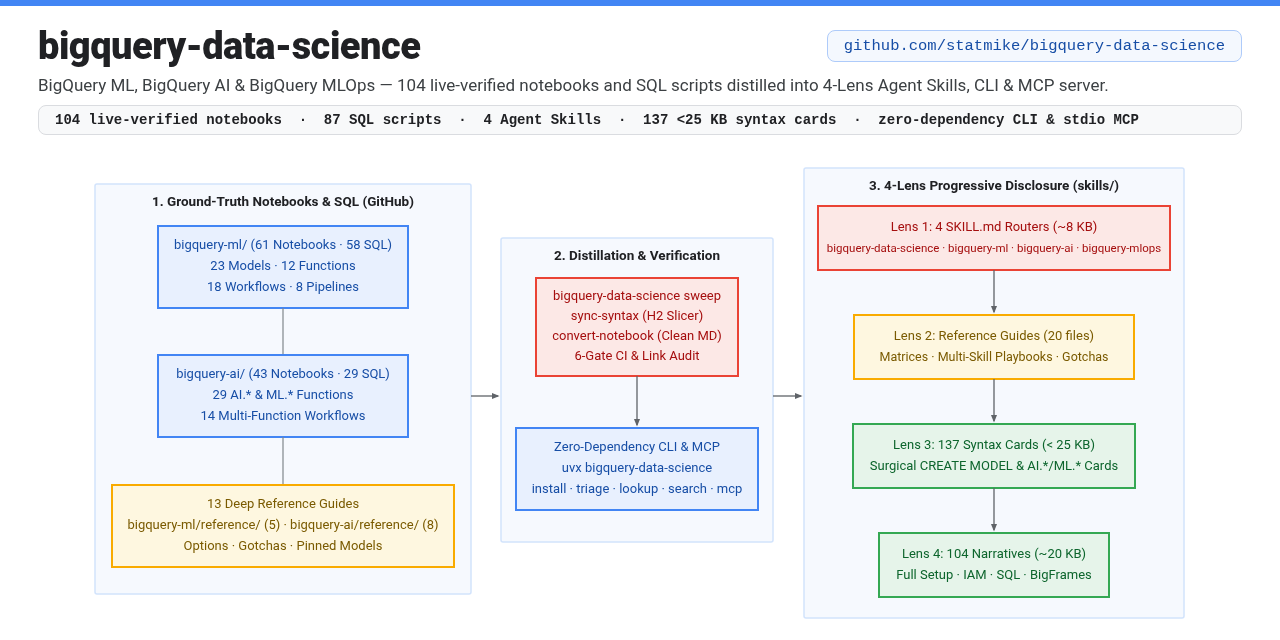
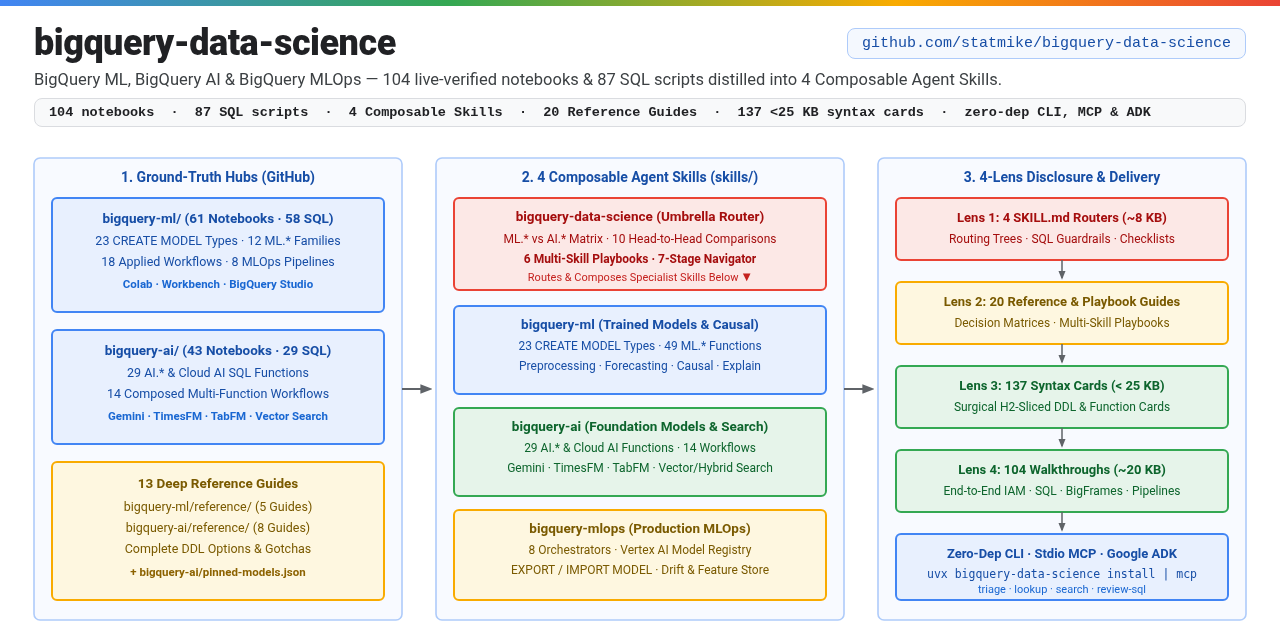
docs(readme): revise 3-stage 4-skill architecture diagram, SVG, PyPI PNG, and social card

diff --git a/tests/test_packaging.py b/tests/test_packaging.py
@@ -168,6 +168,7 @@ def test_hatch_fancy_pypi_readme_substitutions_leave_zero_relative_links() -> No
     )
     assert (REPO_ROOT / "docs" / "assets" / "social_card.png").is_file()
     assert (REPO_ROOT / "docs" / "assets" / "readme_architecture.png").is_file()
+    assert (REPO_ROOT / "docs" / "assets" / "readme_architecture.svg").is_file()
 
 
 def test_governance_and_ci_workflow_files_exist() -> None:

diff --git a/README.md b/README.md
@@ -1,59 +1,66 @@
 # bigquery-data-science
 
-**Production Agent Skills, zero-dependency CLI & stdio MCP server for BigQuery ML and BigQuery AI — distilled directly from 104 live-executed notebooks and 87 SQL scripts in Google Cloud.**
+**Production Agent Skills, zero-dependency CLI, stdio MCP server & Google ADK tools for BigQuery ML, BigQuery AI, and BigQuery MLOps — distilled directly from 104 live-executed notebooks and 87 SQL scripts in Google Cloud.**
 
 [![PyPI](https://img.shields.io/pypi/v/bigquery-data-science?style=for-the-badge&logo=pypi&logoColor=white)](https://pypi.org/project/bigquery-data-science/)
 [![BigQuery ML Hub](https://img.shields.io/badge/BigQuery%20ML-61%20Notebooks%20%26%2058%20SQL-4285F4?style=for-the-badge&logo=google-cloud&logoColor=white)](bigquery-ml/README.md)
 [![BigQuery AI Hub](https://img.shields.io/badge/BigQuery%20AI-43%20Notebooks%20%26%2029%20SQL-0F9D58?style=for-the-badge&logo=google-cloud&logoColor=white)](bigquery-ai/README.md)
-[![Agent Skills](https://img.shields.io/badge/Agent%20Skills-4--Lens%20Progressive%20Disclosure-8E24AA?style=for-the-badge)](skills/PLANS.md)
+[![BigQuery MLOps Skill](https://img.shields.io/badge/BigQuery%20MLOps-8%20Pipelines%20%C2%B7%20Registry%20%C2%B7%20Drift-F9AB00?style=for-the-badge&logo=google-cloud&logoColor=white)](skills/bigquery-mlops/SKILL.md)
+[![Multi-Skill Playbooks](https://img.shields.io/badge/Multi--Skill-6%20Playbooks%20%C2%B7%207--Stage%20Map-8E24AA?style=for-the-badge)](skills/bigquery-data-science/reference/cross-skill-playbooks.md)
 [![Namespace Matrix](https://img.shields.io/badge/ML.*%20vs%20AI.*-Namespace%20Matrix-EA4335?style=for-the-badge)](skills/bigquery-data-science/reference/namespace-matrix.md)
 [![License](https://img.shields.io/badge/License-Apache%202.0-4E5D6C?style=for-the-badge)](LICENSE)
 
-`104 live-verified notebooks` · `87 SQL scripts` · `4 Agent Skills` · `137 <25 KB syntax cards` · `zero-dependency CLI & stdio MCP`
+`104 live-verified notebooks` · `87 SQL scripts` · `4 Composable Agent Skills` · `20 Reference & Playbook Guides` · `137 <25 KB syntax cards` · `zero-dependency CLI, MCP & ADK`
 
 ```mermaid
 flowchart TD
-    subgraph GT["1. Ground-Truth Notebooks & SQL (GitHub)"]
+    subgraph GT["1. Ground-Truth Notebooks, SQL & Reference Hubs (GitHub)"]
         direction LR
-        BQML["bigquery-ml/ (61 Notebooks · 58 SQL)<br/>23 Models · 12 Functions<br/>18 Workflows · 8 Pipelines"]
-        BQAI["bigquery-ai/ (43 Notebooks · 29 SQL)<br/>29 AI.* & ML.* Functions<br/>14 Multi-Function Workflows"]
-        REFS["13 Deep Reference Guides<br/>bigquery-ml/reference/ (5) · bigquery-ai/reference/ (8)<br/>Options · Gotchas · Pinned Models"]
-    end
-    subgraph SYNC["2. Distillation & Verification"]
-        direction LR
-        SWEEP["bigquery-data-science sweep<br/>sync-syntax (H2 Slicer)<br/>convert-notebook (Clean MD)<br/>6-Gate CI & Link Audit"]
-        CLI["Zero-Dependency CLI & MCP<br/>uvx bigquery-data-science<br/>install · triage · lookup · search · mcp"]
-        SWEEP --> CLI
-    end
-    subgraph LENS["3. 4-Lens Progressive Disclosure (skills/)"]
-        direction TB
-        L1["Lens 1: 4 SKILL.md Routers (~8 KB)<br/>bigquery-data-science · bigquery-ml · bigquery-ai · bigquery-mlops"]
-        L2["Lens 2: Reference Guides (20 files)<br/>Decision Matrices · Multi-Skill Playbooks · Gotchas"]
-        L3["Lens 3: 137 Syntax Cards (< 25 KB)<br/>Surgical CREATE MODEL & AI.*/ML.* Cards"]
-        L4["Lens 4: 104 Narratives (~20 KB)<br/>Full Setup · IAM · SQL · BigFrames"]
-        L1 --> L2 --> L3 --> L4
+        BQML["bigquery-ml/ (61 Notebooks · 58 SQL)<br/>23 CREATE MODEL Types · 12 ML.* Functions<br/>18 Workflows · 8 MLOps Pipelines"]
+        BQAI["bigquery-ai/ (43 Notebooks · 29 SQL)<br/>29 AI.* & Cloud AI Functions<br/>14 Multi-Function Workflows"]
+        REFS["13 Deep Reference Guides<br/>bigquery-ml/reference/ (5) · bigquery-ai/reference/ (8)<br/>Options · Gotchas · pinned-models.json"]
     end
 
-    GT --> SYNC --> LENS
+    subgraph SKILLS["2. 4 Composable Agent Skills (skills/ · .agents/skills/ · .claude/skills/)"]
+        direction TB
+        ROUTER["bigquery-data-science (Umbrella Router & Multi-Skill Composer)<br/>ML.* vs AI.* Prerequisite Matrix · 10 Head-to-Head Comparisons<br/>6 Multi-Skill Composition Playbooks · 7-Stage Lifecycle Navigator"]
+        S_ML["bigquery-ml<br/>23 CREATE MODEL Types<br/>Preprocessing · Causal · Explain"]
+        S_AI["bigquery-ai<br/>29 AI.* & Cloud AI Functions<br/>TimesFM · TabFM · Vector/Hybrid Search"]
+        S_OPS["bigquery-mlops<br/>8 Orchestrators · Vertex Registry<br/>Export/Import · Drift & Feature Store"]
+        ROUTER --> S_ML
+        ROUTER --> S_AI
+        ROUTER --> S_OPS
+    end
+
+    subgraph LENS["3. 4-Lens Progressive Disclosure & Zero-Dependency Delivery"]
+        direction TB
+        L12["Lens 1: 4 SKILL.md Routers (~8 KB)  ➜  Lens 2: 20 Decision & Playbook Guides (~15–45 KB)"]
+        L34["Lens 3: 137 Surgical Syntax Cards (< 25 KB)  ➜  Lens 4: 104 Worked Walkthroughs (~20 KB)"]
+        DELIV["Zero-Dependency Package (< 1.5 MB Wheel) · CLI · Stdio MCP Server · Google ADK<br/>uvx bigquery-data-science install · triage · lookup · search · review-sql · mcp"]
+        L12 --> L34 --> DELIV
+    end
+
+    GT --> SKILLS --> LENS
 
     classDef data fill:#E8F0FE,stroke:#4285F4,stroke-width:2px,color:#174EA6
     classDef config fill:#FEF7E0,stroke:#F9AB00,stroke-width:2px,color:#7A5A00
     classDef route fill:#FCE8E6,stroke:#EA4335,stroke-width:2px,color:#A50E0E
     classDef compute fill:#E6F4EA,stroke:#34A853,stroke-width:2px,color:#0D652D
-    class BQML,BQAI,CLI data
-    class REFS,L2 config
-    class SWEEP,L1 route
-    class L3,L4 compute
+    class BQML,BQAI,S_ML,DELIV data
+    class REFS,S_OPS,L12 config
+    class ROUTER route
+    class S_AI,L34 compute
 ```
 
 ---
 
 ## What you just found
 
-This repository pairs **two complementary layers** that stay synchronized through automated tooling (`bigquery-data-science sweep`):
+This repository pairs **three tightly connected layers** that stay synchronized through automated tooling (`bigquery-data-science sweep`):
 
-1. **Ground-Truth Notebooks, SQL & Reference Guides ([`bigquery-ml/`](bigquery-ml/README.md) & [`bigquery-ai/`](bigquery-ai/README.md)):** Every model type, `ML.*` function, `AI.*` function, composed workflow, and orchestration pipeline is validated end-to-end in a live-executed Jupyter notebook (`.ipynb` with stored execution outputs and one-click Colab / Vertex AI Workbench / BigQuery Studio headers) paired with a pure SQL companion script (`.sql`) and 13 exhaustive domain reference guides.
-2. **4-Lens Agent Skills, CLI & Stdio MCP Server ([`skills/`](skills/PLANS.md) & [`src/bigquery_data_science/`](src/bigquery_data_science/__init__.py)):** Instead of dumping 24 MB of raw notebooks or 200+ KB monolithic reference files into an AI coding agent's context window, `bigquery-data-science` compiles the ground-truth notebooks and references into **4 progressive lenses** — routing agents from an `~8 KB` `SKILL.md` decision tree to a surgical `<25 KB` syntax card (`syntax/*.md`) or a clean markdown walkthrough (`narrative/*.md`) only when needed.
+1. **Ground-Truth Notebooks, SQL & Reference Hubs ([`bigquery-ml/`](bigquery-ml/README.md) & [`bigquery-ai/`](bigquery-ai/README.md)):** Every model type (`23`), `ML.*` function (`12` families), `AI.*` / Cloud AI function (`29`), composed workflow (`32`), and MLOps orchestration pipeline (`8`) is validated end-to-end in a live-executed Jupyter notebook (`.ipynb` with committed outputs and one-click Colab / Vertex AI Workbench / BigQuery Studio headers) paired with a pure SQL companion script (`87` `.sql` files) and `13` deep domain reference guides.
+2. **4 Composable Agent Skills ([`skills/`](skills/PLANS.md)):** An umbrella router and multi-skill composer ([`bigquery-data-science`](skills/bigquery-data-science/SKILL.md)) routes across three specialist skills — trained models & causal inference ([`bigquery-ml`](skills/bigquery-ml/SKILL.md)), zero-training foundation models & vector/hybrid search ([`bigquery-ai`](skills/bigquery-ai/SKILL.md)), and production orchestration, model registry, hybrid serving, drift monitoring & point-in-time feature stores ([`bigquery-mlops`](skills/bigquery-mlops/SKILL.md)) — and explicitly recommends multi-skill combinations via [`cross-skill-playbooks.md`](skills/bigquery-data-science/reference/cross-skill-playbooks.md).
+3. **4-Lens Progressive Disclosure, CLI, Stdio MCP & Google ADK ([`src/bigquery_data_science/`](src/bigquery_data_science/__init__.py)):** Instead of dumping 24 MB of raw notebooks or 200+ KB monolithic reference files into an AI coding agent's context window, `bigquery-data-science` compiles the repository into **4 progressive lenses** (`SKILL.md` $\to$ `20` reference guides $\to$ `137` `<25 KB` syntax cards $\to$ `104` clean narratives) and exposes them through a zero-dependency CLI (`uvx bigquery-data-science`), stdio MCP server (`bigquery-data-science mcp`), and Google ADK toolset (`get_bigquery_tools()`).
 
 ---
 
@@ -101,8 +108,9 @@ Run any catalog command directly with `uvx bigquery-data-science ...` (zero inst
 # 1. List bundled skills and lens counts:
 uvx bigquery-data-science list
 
-# 2. Triage an ambiguous BigQuery ML vs BigQuery AI task (10 empirical head-to-head comparisons):
+# 2. Triage any BigQuery ML, BigQuery AI, or BigQuery MLOps task (10 comparisons + 6 multi-skill playbooks):
 uvx bigquery-data-science triage "forecast daily retail sales with holiday promotions"
+uvx bigquery-data-science triage "schedule retraining pipeline with drift gate and Vertex AI Model Registry"
 
 # 3. Fetch the surgical syntax card (< 25 KB) for any model or function:
 uvx bigquery-data-science lookup ARIMA_PLUS
@@ -183,6 +191,7 @@ BigQuery exposes machine learning and generative AI across two SQL prefixes (`ML
 | **2. Model-Free Feature Engineering, Drift & Point-in-Time Joins** | `ML.*` | **No** (operates directly on tables/queries) | No | `ML.STANDARD_SCALER`, `ML.QUANTILE_BUCKETIZE`, `ML.ONE_HOT_ENCODER`, `ML.VALIDATE_DATA_DRIFT`, `ML.TF_IDF`, `ML.NGRAMS`, `ML.ENTITY_FEATURES_AT_TIME` | **[`bigquery-ml/`](bigquery-ml/README.md)** |
 | **3. Zero-Training Foundation Model Functions (Gemini, TimesFM, TabFM)** | `AI.*` (plus `VECTOR_SEARCH`) | **No** (`endpoint => '...'` inline or managed) | For multimodal `ObjectRef` or custom connections | `AI.GENERATE`, `AI.GENERATE_TABLE`, `AI.IF`, `AI.SCORE`, `AI.CLASSIFY`, `AI.AGG`, `AI.EMBED`, `AI.SEARCH`, `AI.FORECAST`, `AI.DETECT_ANOMALIES`, `AI.PREDICT`, `AI.EVALUATE`, `AI.KEY_DRIVERS`, `AI.PARSE_DOCUMENT` | **[`bigquery-ai/`](bigquery-ai/README.md)** |
 | **4. Remote Cloud AI APIs & First-Gen Vertex Wrappers** | `CREATE MODEL ... REMOTE` + `ML.*` | **Yes** (thin metadata pointer to Vertex / Cloud AI API) | **Yes** (`CLOUD_RESOURCE` connection + IAM) | `ML.PROCESS_DOCUMENT`, `ML.TRANSLATE`, `ML.UNDERSTAND_TEXT`, `ML.ANNOTATE_IMAGE`, `ML.TRANSCRIBE`, `ML.GENERATE_TEXT`, `ML.GENERATE_EMBEDDING` | **[`bigquery-ai/`](bigquery-ai/README.md)** |
+| **5. Production MLOps, Model Registry, Export/Import & Universal Monitoring** | `CREATE MODEL ... OPTIONS(model_registry='VERTEX_AI')`, `EXPORT MODEL`, `ML.*` | Varies (`CREATE MODEL` for Registry/Import; **No** for `ML.VALIDATE_DATA_DRIFT` / `ML.METRICS`) | Only for `REMOTE` / Vertex endpoints | `OPTIONS(model_registry='VERTEX_AI', vertex_ai_model_id='...')`, `EXPORT MODEL` (`xgboost_version='2.1'`), `MODEL_TYPE='ONNX'\|'XGBOOST'\|'TENSORFLOW'`, `ML.VALIDATE_DATA_DRIFT`, `ML.VALIDATE_DATA_SKEW`, `ML.METRICS`, `ML.ENTITY_FEATURES_AT_TIME`, 8 orchestrators | **[`bigquery-ml/`](bigquery-ml/README.md)** · **[`skills/bigquery-mlops/`](skills/bigquery-mlops/SKILL.md)** |
 
 ### 7-Stage Problem-First Data Science Navigator (All 32 Workflows & 8 Pipelines)
 
@@ -208,10 +217,11 @@ Instead of scrolling through 104 individual rows here, jump directly into the do
 | | **[`bigquery-ml/models/`](bigquery-ml/models/)** | `23` folders (`23` `.ipynb`, `23` `.sql`) | Every `CREATE MODEL` type: `linear_reg`, `logistic_reg`, `boosted_tree_*`, `random_forest_*`, `dnn_*`, `wide_and_deep_*`, `automl_*`, `arima_plus`, `arima_plus_xreg`, `kmeans`, `pca`, `autoencoder`, `matrix_factorization`, `contribution_analysis`, `cox_proportional_hazards`, and imported `onnx`/`tensorflow`/`xgboost`. | [`bigquery-ml/README.md` (Model Catalog)](bigquery-ml/README.md) · [`reference/create-model-model-types.md`](bigquery-ml/reference/create-model-model-types.md) · [`reference/comparison-tables.md`](bigquery-ml/reference/comparison-tables.md) |
 | | **[`bigquery-ml/functions/`](bigquery-ml/functions/)** | `12` folders (`12` `.ipynb`, `12` `.sql`) | `ML.EVALUATE`, `ML.PREDICT`, `ML.EXPLAIN_PREDICT`, `ML.GLOBAL_EXPLAIN`, `ML.FEATURE_INFO`, `ML.TRANSFORM`, numerical/categorical/text preprocessing, `ML.VALIDATE_DATA_DRIFT`, `ML.DESCRIBE_DATA`, `ML.ENTITY_FEATURES_AT_TIME`, `ML.FEATURES_AT_TIME`, and hyperparameter tuning. | [`bigquery-ml/README.md` (Function Catalog)](bigquery-ml/README.md) · [`reference/model-lifecycle-functions.md`](bigquery-ml/reference/model-lifecycle-functions.md) · [`reference/model-free-functions.md`](bigquery-ml/reference/model-free-functions.md) · [`reference/model-management-monitoring.md`](bigquery-ml/reference/model-management-monitoring.md) |
 | | **[`bigquery-ml/workflows/`](bigquery-ml/workflows/)** | `18` folders (`18` `.ipynb`, `15` `.sql`) | End-to-end applied ML workflows: customer LTV, churn & survival analysis, demand forecasting at scale, fraud detection, propensity scoring, price elasticity, A/B uplift & causal inference, recommendation systems, anomaly detection, and model monitoring. | [`bigquery-ml/README.md` (Workflows)](bigquery-ml/README.md) · [`skills/bigquery-ml/reference/workflows-and-pipelines.md`](skills/bigquery-ml/reference/workflows-and-pipelines.md) |
-| | **[`bigquery-ml/pipelines/`](bigquery-ml/pipelines/)** | `8` folders (`8` `.ipynb`, `8` `.sql`) | Production MLOps orchestration: Scheduled Queries, Dataform SQLX, Google Cloud Workflows, Cloud Composer (Airflow), Vertex AI Pipelines (KFP), Vertex AI Model Registry & online endpoints, and Vertex AI Feature Store. | [`bigquery-ml/README.md` (Pipelines)](bigquery-ml/README.md) · [`skills/bigquery-ml/reference/workflows-and-pipelines.md`](skills/bigquery-ml/reference/workflows-and-pipelines.md) |
+| | **[`bigquery-ml/pipelines/`](bigquery-ml/pipelines/)** | `8` folders (`8` `.ipynb`, `8` `.sql`) | Production MLOps orchestration across 8 GCP & SQL engines: `sql_scripting`, `scheduled_queries`, `dataform`, `cloud_workflows`, `dbt`, `vertex_kfp`, `composer_airflow`, and `airflow_with_kfp`. | [`bigquery-ml/README.md` (Pipelines)](bigquery-ml/README.md) · [`skills/bigquery-mlops/SKILL.md`](skills/bigquery-mlops/SKILL.md) · [`skills/bigquery-mlops/reference/orchestration-and-pipelines.md`](skills/bigquery-mlops/reference/orchestration-and-pipelines.md) |
 | **[BigQuery AI (`bigquery-ai/`)](bigquery-ai/README.md)**<br/>*Zero-training `AI.*` foundation models + Cloud AI `ML.*`* | **Start Here & Reference Index** | `2` setup/overview + `8` guides | Interactive tour of BigQuery AI functions, synthetic multimodal/PDF dataset generator ([`data/documents/generate.ipynb`](bigquery-ai/data/documents/generate.ipynb)), and [`RESOURCES.md`](bigquery-ai/RESOURCES.md). | [`bigquery-ai/README.md`](bigquery-ai/README.md) · [`overview.ipynb`](bigquery-ai/overview.ipynb) · [`RESOURCES.md`](bigquery-ai/RESOURCES.md) · [`setup/`](bigquery-ai/setup/README.md) |
 | | **[`bigquery-ai/functions/`](bigquery-ai/functions/)** | `29` folders (`29` `.ipynb`, `29` `.sql`) | General-purpose generation (`AI.GENERATE*`, `AI.COUNT_TOKENS`), managed task functions (`AI.IF`, `AI.SCORE`, `AI.CLASSIFY`, `AI.AGG`), embeddings & vector search (`AI.EMBED`, `AI.SIMILARITY`, `VECTOR_SEARCH`, `AI.SEARCH`), Predictive AI (`AI.FORECAST`, `AI.DETECT_ANOMALIES`, `AI.PREDICT`, `AI.EVALUATE`), `AI.KEY_DRIVERS`, Document AI (`AI.PARSE_DOCUMENT`, `ML.PROCESS_DOCUMENT`), and Cloud AI (`ML.TRANSLATE`, `ML.UNDERSTAND_TEXT`, `ML.ANNOTATE_IMAGE`, `ML.TRANSCRIBE`). | [`bigquery-ai/README.md` (Function Catalog)](bigquery-ai/README.md) · [`reference/general-purpose-functions.md`](bigquery-ai/reference/general-purpose-functions.md) · [`reference/managed-functions.md`](bigquery-ai/reference/managed-functions.md) · [`reference/embedding-generation-and-semantic-search.md`](bigquery-ai/reference/embedding-generation-and-semantic-search.md) · [`reference/predictive-ai.md`](bigquery-ai/reference/predictive-ai.md) · [`reference/document-processing.md`](bigquery-ai/reference/document-processing.md) |
 | | **[`bigquery-ai/workflows/`](bigquery-ai/workflows/)** | `14` folders (`14` `.ipynb`) | Composed multi-function pipelines: semantic search, RAG, hybrid catalog search (BM25 + vector + RRF + `AI.SCORE`), content analysis & moderation, data enrichment, zero-shot vs trained tabular prediction, time-series intelligence, metric diagnostics, log analysis, document intelligence & PDF RAG, multimodal analysis, and image deduplication. | [`bigquery-ai/README.md` (Workflows)](bigquery-ai/README.md) · [`reference/unstructured-data-infrastructure.md`](bigquery-ai/reference/unstructured-data-infrastructure.md) · [`reference/cloud-ai-service-models.md`](bigquery-ai/reference/cloud-ai-service-models.md) · [`reference/augmented-analytics.md`](bigquery-ai/reference/augmented-analytics.md) |
+| **[Agent Skills (`skills/`)](skills/PLANS.md)**<br/>*4 Composable Skills · 4 Progressive Lenses* | **Umbrella Router + 3 Specialist Skills** | `4` `SKILL.md` + `20` guides + `137` syntax cards + `104` narratives | Multi-skill task routing (`bigquery-data-science`), trained models & preprocessing (`bigquery-ml`), zero-training foundation models & search (`bigquery-ai`), and production orchestration, registry, export/import, drift & feature store (`bigquery-mlops`). | [`skills/bigquery-data-science/SKILL.md`](skills/bigquery-data-science/SKILL.md) · [`cross-skill-playbooks.md`](skills/bigquery-data-science/reference/cross-skill-playbooks.md) · [`namespace-matrix.md`](skills/bigquery-data-science/reference/namespace-matrix.md) · [`skills/bigquery-mlops/SKILL.md`](skills/bigquery-mlops/SKILL.md) |
 
 ---
 
